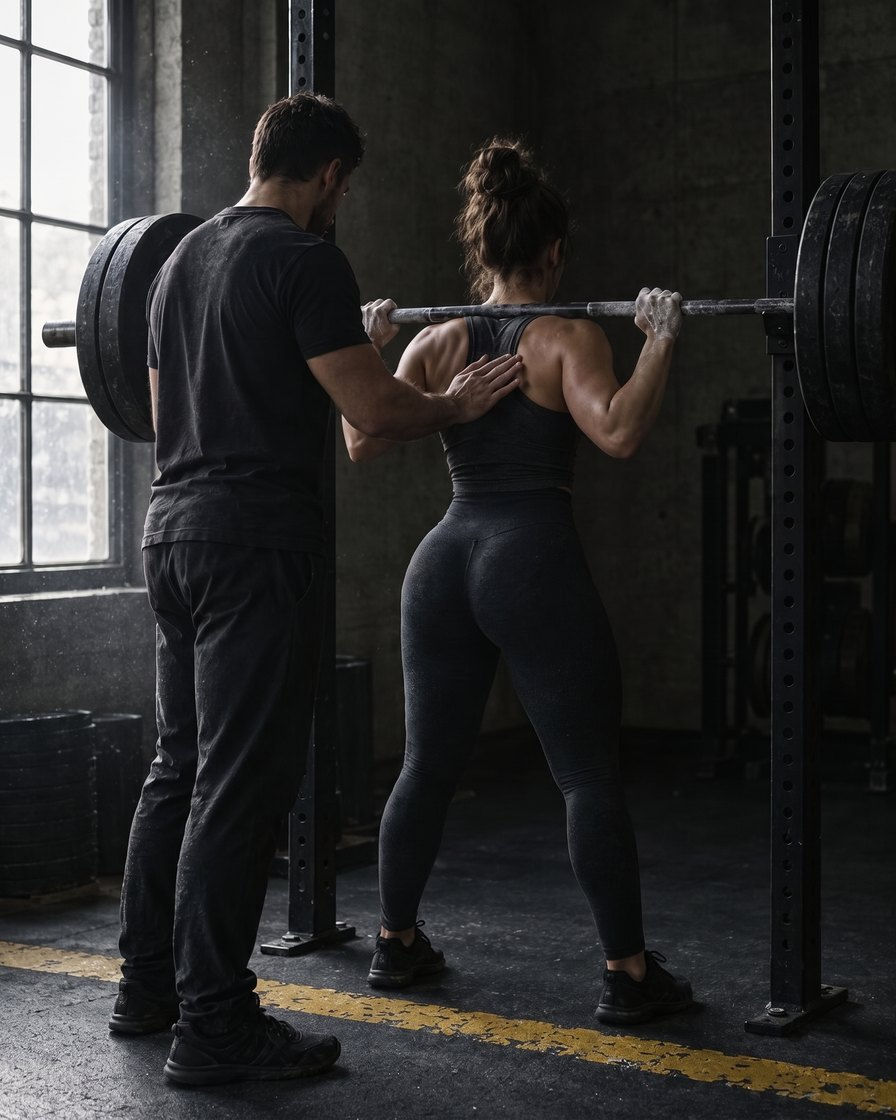
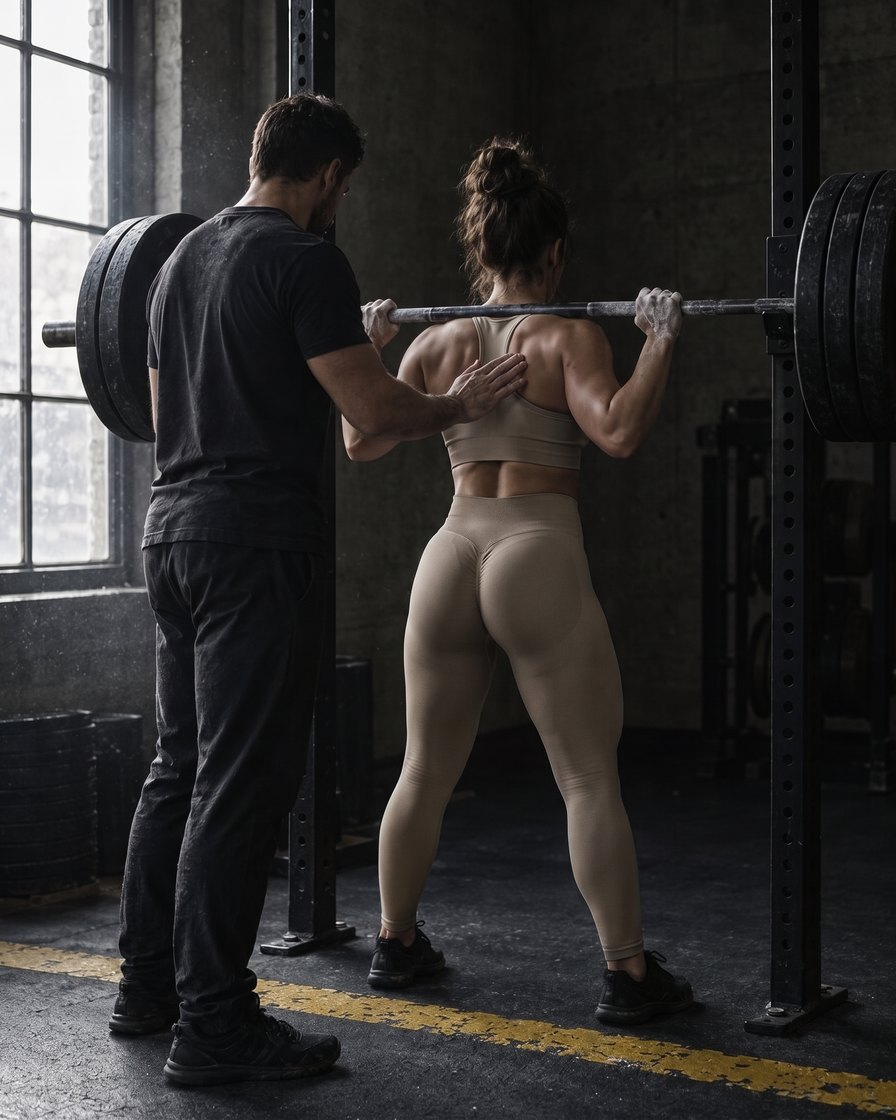
Ballast: coaching photo with a fitness-model physique and sand training set
Same coach, pose, gym and lighting. Alt text updated to match.

Claude-Session: https://claude.ai/code/session_01LimQp9A32jopGDVLoZwNJe

diff --git a/public/work/ballast/index.html b/public/work/ballast/index.html
@@ -382,7 +382,7 @@ footer .mark{color:var(--chalk);font-size:28px}
   <section class="how" id="how" aria-labelledby="how-h">
     <div class="grid">
       <figure>
-        <img src="img/coach.jpg" alt="A coach in black rests a hand on a member's upper back as she sets up under a barbell in a squat rack" loading="lazy" width="896" height="1120">
+        <img src="img/coach.jpg" alt="A coach in black rests a hand on the upper back of a member in a sand training set as she sets up under a barbell in a squat rack" loading="lazy" width="896" height="1120">
         <figcaption>Coaching happens on the floor, one set at a time.</figcaption>
       </figure>
       <div>
